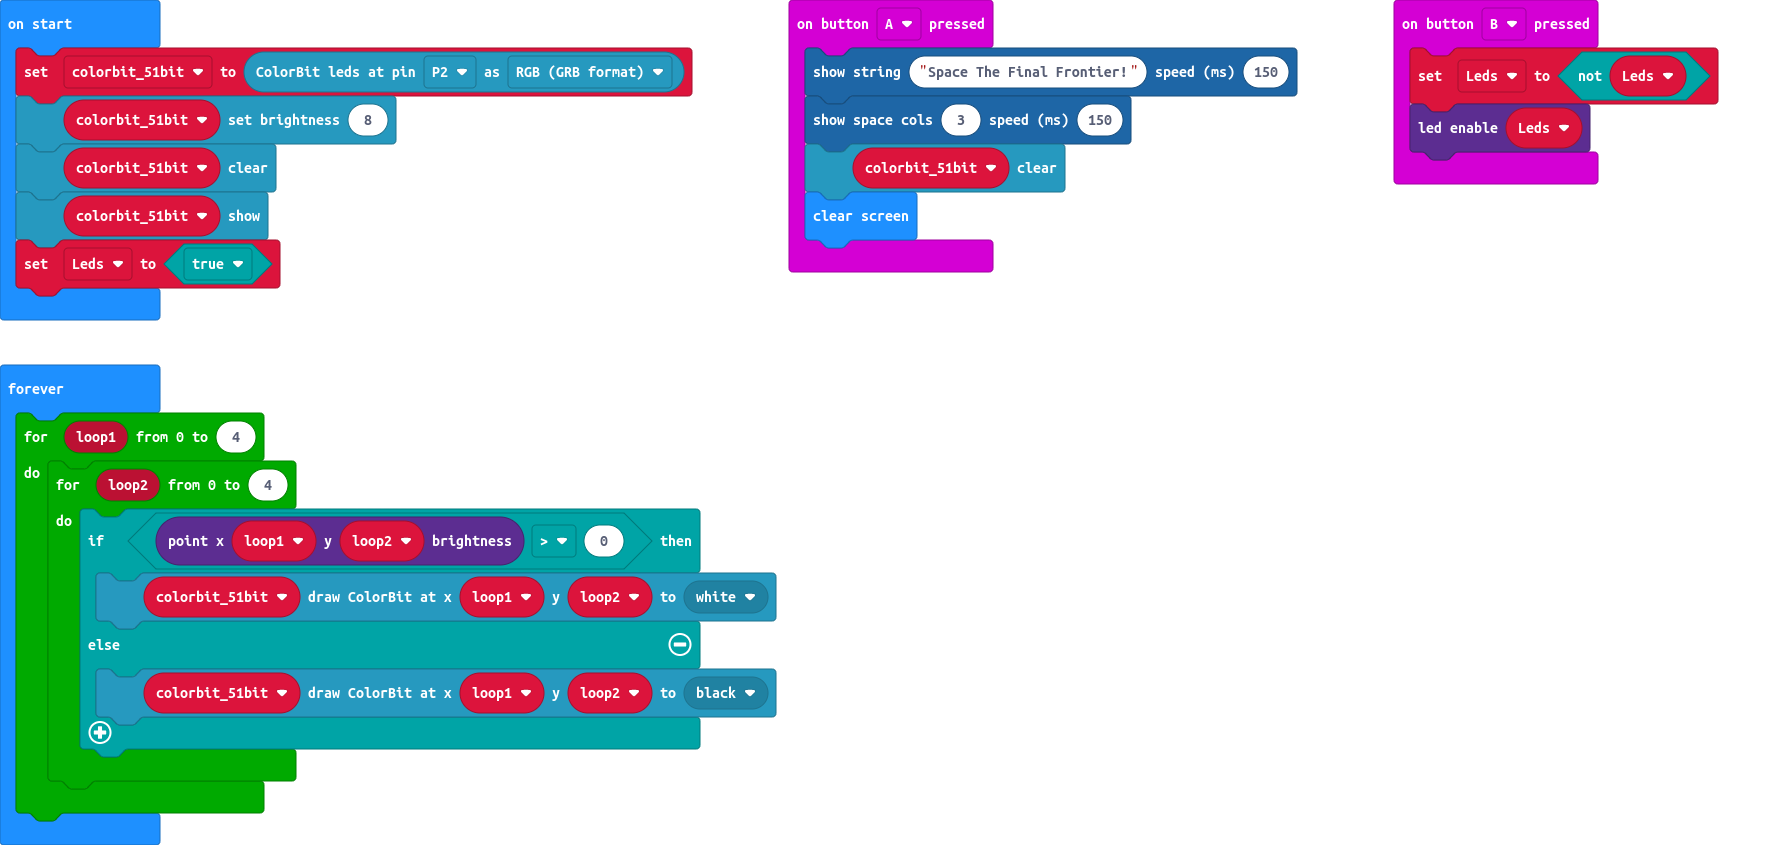
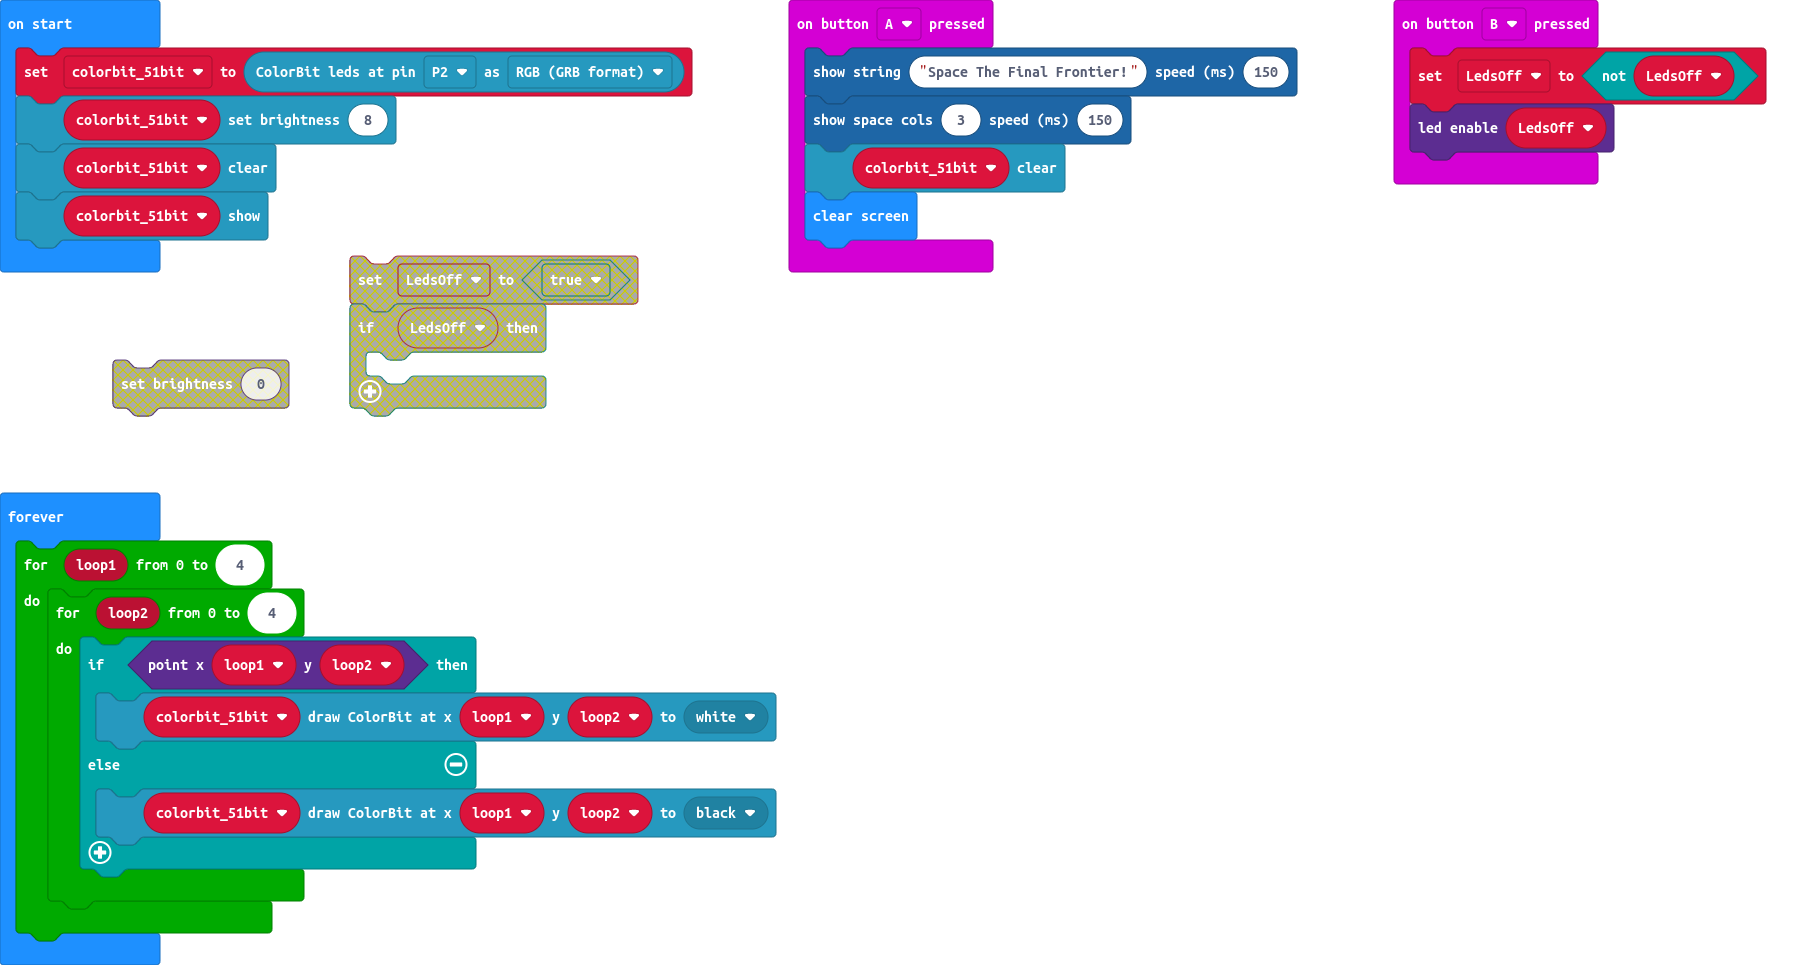
removed brightness need to edit extension

Changed region(s): [[0.0, 0.0, 0.4661, 1.0], [0.435, 0.0, 0.9944, 0.3385]]

diff --git a/main.ts b/main.ts
@@ -5,20 +5,19 @@ input.onButtonPressed(Button.A, function () {
     basic.clearScreen()
 })
 input.onButtonPressed(Button.B, function () {
-    Leds = !(Leds)
-    led.enable(Leds)
+    LedsOff = !(LedsOff)
+    led.enable(LedsOff)
 })
-let Leds = false
+let LedsOff = false
 let colorbit_51bit: colorbit.Strip = null
 colorbit_51bit = colorbit.initColorBit(DigitalPin.P2, BitColorMode.RGB)
 colorbit_51bit.setBrightness(8)
 colorbit_51bit.clear()
 colorbit_51bit.show()
-Leds = true
 basic.forever(function () {
     for (let loop1 = 0; loop1 <= 4; loop1++) {
         for (let loop2 = 0; loop2 <= 4; loop2++) {
-            if (led.pointBrightness(loop1, loop2) > 0) {
+            if (led.point(loop1, loop2)) {
                 colorbit_51bit.drawColorBit(loop1, loop2, colorbit.colors(BitColors.White))
             } else {
                 colorbit_51bit.drawColorBit(loop1, loop2, colorbit.colors(BitColors.Black))

diff --git a/main.py b/main.py
@@ -1,20 +1,28 @@
 def on_button_pressed_a():
-    whaleysans.show_number(90)
+    proportionalFont.show_string("Space The Final Frontier!", 150)
+    proportionalFont.show_space(3, 150)
+    colorbit_51bit.clear()
+    basic.clear_screen()
 input.on_button_pressed(Button.A, on_button_pressed_a)
 
-def on_button_pressed_ab():
-    colorbit_51bit.clear()
-input.on_button_pressed(Button.AB, on_button_pressed_ab)
-
 def on_button_pressed_b():
+    global LedsOff
+    LedsOff = not (LedsOff)
+    led.enable(LedsOff)
+input.on_button_pressed(Button.B, on_button_pressed_b)
+
+LedsOff = False
+colorbit_51bit: colorbit.Strip = None
+colorbit_51bit = colorbit.init_color_bit(DigitalPin.P2, BitColorMode.RGB)
+colorbit_51bit.set_brightness(8)
+colorbit_51bit.clear()
+colorbit_51bit.show()
+
+def on_forever():
     for loop1 in range(5):
         for loop2 in range(5):
-            if led.point_brightness(loop1, loop2) > 0:
+            if led.point(loop1, loop2):
                 colorbit_51bit.draw_color_bit(loop1, loop2, colorbit.colors(BitColors.WHITE))
             else:
                 colorbit_51bit.draw_color_bit(loop1, loop2, colorbit.colors(BitColors.BLACK))
-input.on_button_pressed(Button.B, on_button_pressed_b)
-
-colorbit_51bit: colorbit.Strip = None
-colorbit_51bit = colorbit.init_color_bit(DigitalPin.P2, BitColorMode.RGB)
-colorbit_51bit.clear()
+basic.forever(on_forever)
